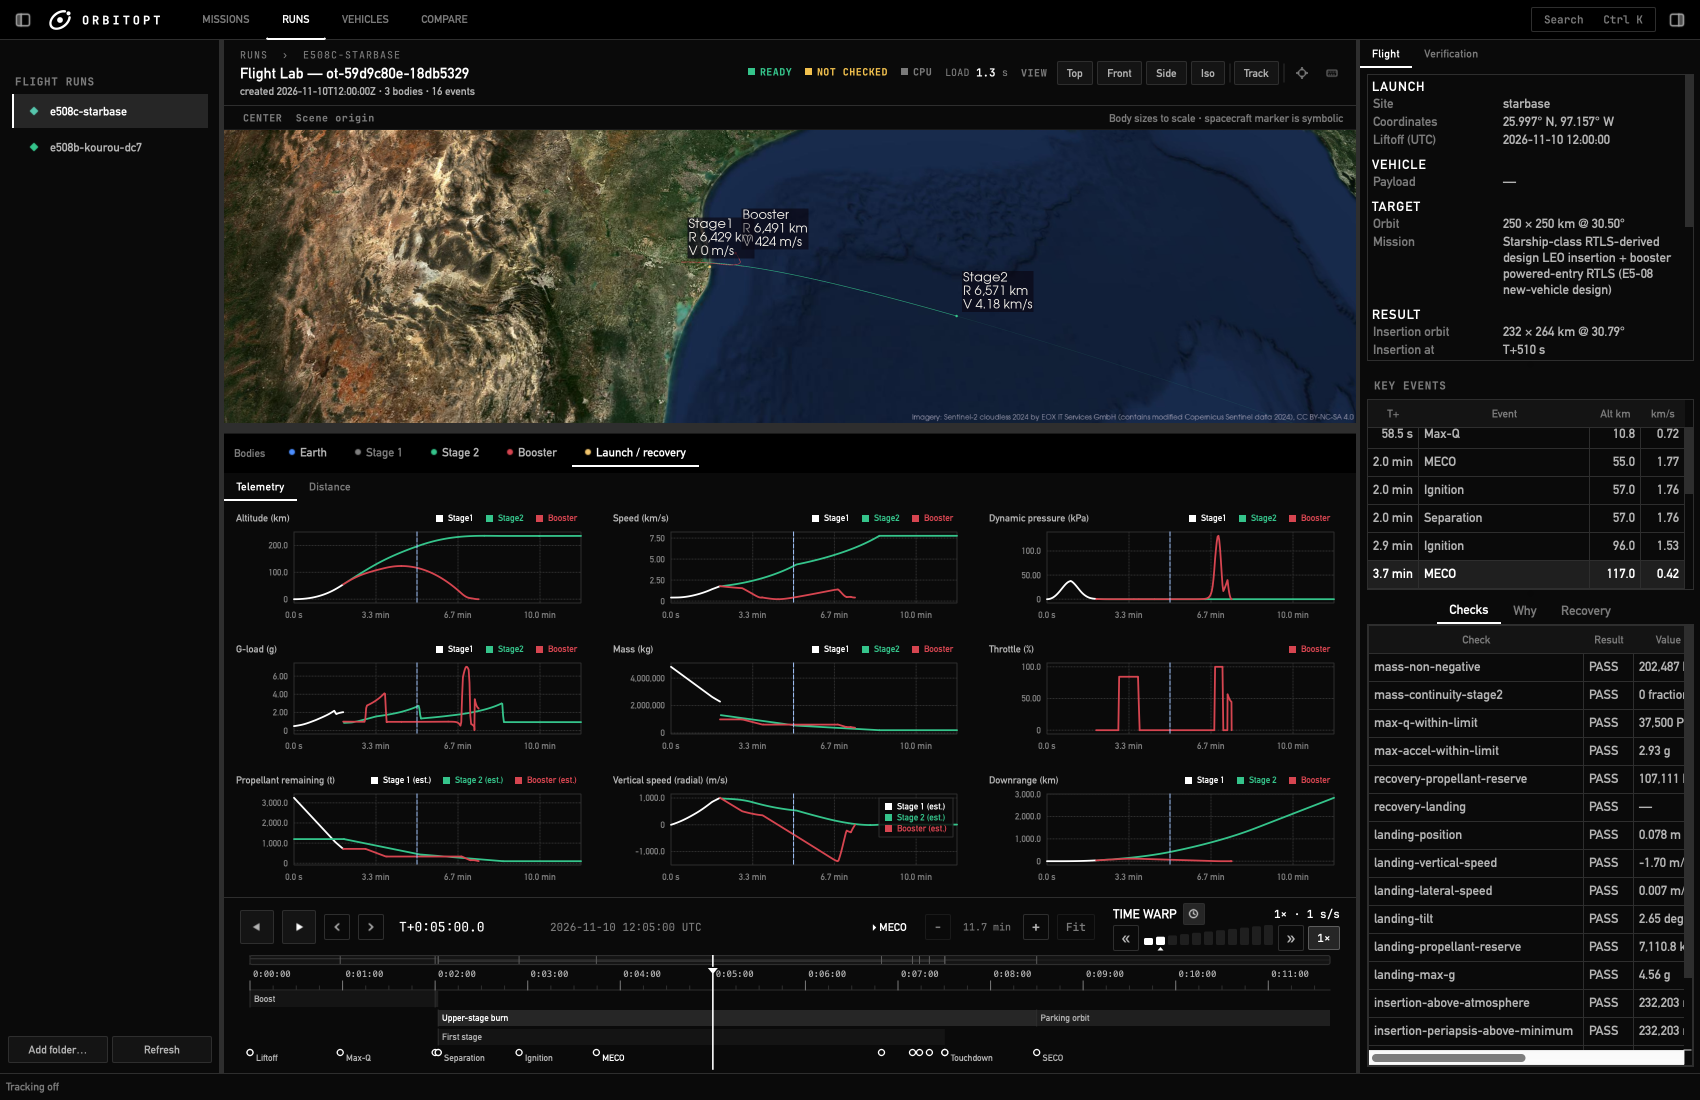
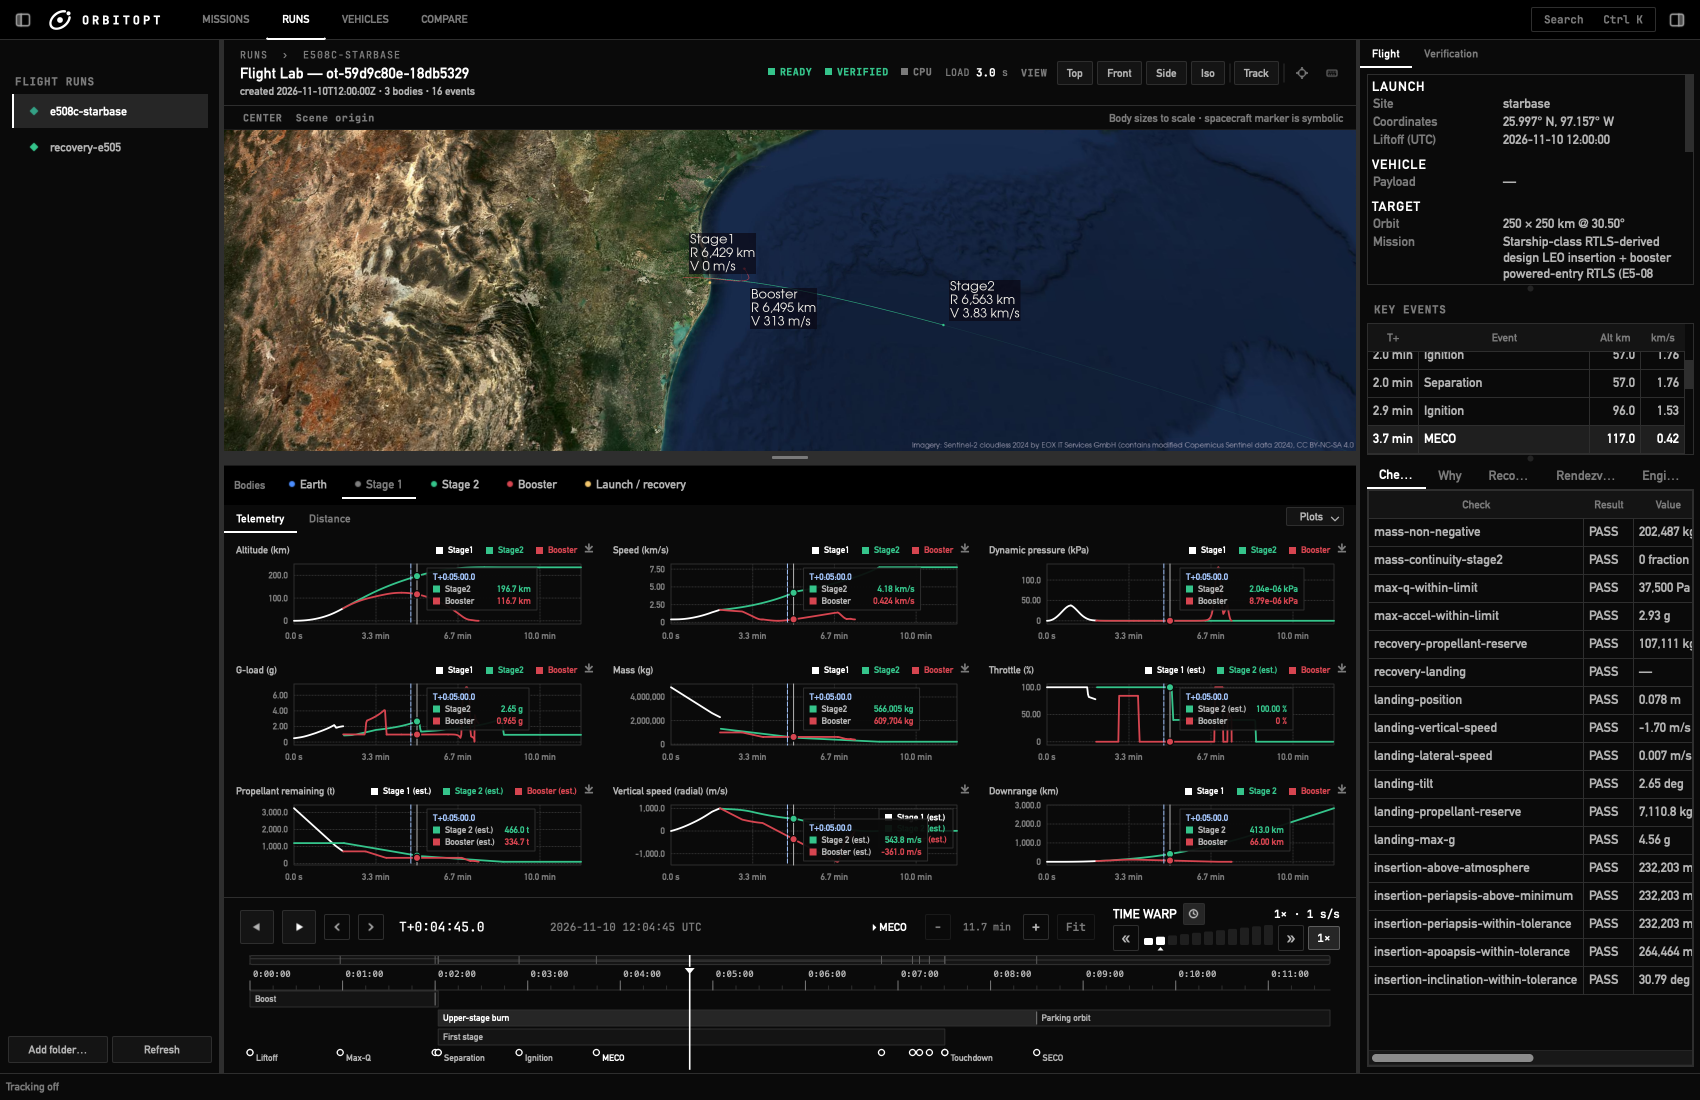
docs: cover E12 rendezvous and refresh Flight Lab screenshots

diff --git a/docs/index.html b/docs/index.html
@@ -1051,8 +1051,8 @@
         <figcaption><span class="fignum">FIG. 1D</span> — GOES, GTO to GEO: the apogee-raising burns mid-campaign</figcaption>
       </figure>
       <figure class="figure">
-        <img src="assets/flightlab-replay.png" alt="Flight Lab's Runs workspace: a two-stage ascent with booster recovery, with per-stage telemetry charts, the key events and every verification check passing" loading="lazy" />
-        <figcaption><span class="fignum">FIG. 1E</span> — Flight Lab: an ascent from <code>orbitopt launch</code>, replayed with its telemetry and checks, injection within tolerance</figcaption>
+        <img src="assets/flightlab-replay.png" alt="Flight Lab's Runs workspace showing linked chart readouts, continuous timeline lanes and recorded flight checks" loading="lazy" />
+        <figcaption><span class="fignum">FIG. 1E</span> — Flight Lab replay of a two-stage ascent and booster recovery, with linked telemetry and recorded checks</figcaption>
       </figure>
     </div>
     <p class="phase-sub" style="margin-top:28px">How to drive it: the <a href="guide.html" style="color:var(--verify)">Mission Control user guide</a>.</p>

diff --git a/docs/computed-mission.md b/docs/computed-mission.md
@@ -20,6 +20,35 @@ dispersion reliability are separate results.
 | E5-07 cross-environment | Recorded ascent + TudatPy mission leg with parking propagation. | Propagation evidenced in the foreign environment; joint gate NOT-DECLARED by design. |
 | E5-08 design variants | Powered-entry RTLS at Kourou and Starbase. | DC7 and Starbase pass the nominal joint physical gate. The original gap remains a negative regression. [Results](e5-08-new-vehicle-report.md). |
 | E8-01 reference check | Compares sealed records with raw backend output and closed forms. | No new flight; validates extraction, continuity and stated reference comparisons. |
+| E12 rendezvous | Plans and replays a target and chaser in LEO. | Nominal, independent re-flight and dispersion results cover the declared reference scenario. [Replay and evidence](#e12-orbital-rendezvous). |
+
+## E12 orbital rendezvous
+
+Generate the packaged **LEO-RDV-001** run from the repository root:
+
+```bash
+orbitopt rendezvous studio -o runs/leo-rdv-001-studio
+orbitopt
+```
+
+In Mission Control, select the run under **Runs**. Follow the target and
+chaser, inspect maneuvers and safety checks in **Flight → Rendezvous**, and
+select range, relative speed or the radial, along-track and cross-track
+components in **Telemetry → Plots**. Use `--config PATH` for another mission
+and `--dt S` to set the replay sample interval. The run directory includes
+`mission.json`, `replay.json` and the Rendezvous panel's `rendezvous.json`.
+See the [replay format](adr/rendezvous-0002-mission-studio-flightlab-replay.md).
+
+| Evidence | LEO-RDV-001 result |
+|---|---|
+| Nominal plan | The two-impulse plan uses **10.344 m/s** total Δv. Safety checks evaluate the approach trajectory. [Safety constraints](adr/rendezvous-0002-safety-constraints-whole-trajectory.md). |
+| Independent re-flight | The recorded nonlinear TudatPy re-flight passed its declared checks. Its closest approach was about **909 m**. [Re-flight report](benchmarks/e12_05_independent_refly.json). |
+| Dispersion campaign | **14 of 264** hold-out cases passed under the declared stress levels (5.3%, Wilson 95% CI 3.2–8.7%). There were 181 arrival-accuracy failures and 69 safety failures. [Campaign design](adr/rendezvous-0003-dispersion-campaign-not-a-safety-factor.md). |
+
+For the independent re-flight in a TudatPy environment, use
+`orbitopt crossenv run --plan src/orbitopt/data/crossenv_e12_05_plan.yaml`.
+See the [independent verification design](adr/rendezvous-0002-independent-refly-tudatpy.md)
+and [CW validity study](benchmarks/e12_02_cw_validity.md) for the model limits.
 
 ## Replay and view the RTLS mission
 
@@ -142,8 +171,8 @@ telemetry or independently validated landing is claimed. See
 | E11-05 | Starbase’s independent debris impact-speed discrepancy remained +12.70% against a 12% tolerance. [Aero qualification](benchmarks/e11_05_starbase_aero_qualification.md). |
 | E11-06 | The experimental Starbase replay records two booster ignitions, one for boostback and one for continuous entry and landing. Its saved landing and orbit re-flight checks pass. [Inspect the run](flightlab.md#viewing-runs-in-mission-control). [Gate record: missions, re-flights, FL-304 rates with CIs](#e11-06-gate-record-task-390). |
 
-If you have the E11-06 run locally, open **Runs → e11-06-starbase-continuous-burn**
-to inspect the burn sequence and fin telemetry.
+Add the archived `tests/data/mission/reference/e11-06-starbase-continuous-burn/mission-hs/recovery/run`
+folder in **Runs** to inspect the hot-staging burn sequence and fin telemetry.
 
 At hot staging, the mission chain can bridge the gap between sampled tracks
 using observed acceleration and mass flow while the parent is still firing.
@@ -154,17 +183,13 @@ and the saved replay shows a nominal simulation.
 
 ### E11-06 gate record (task #390)
 
-The release gate re-derived the continuous-burn design on the pinned landing
-stack and archived the evidence under
-`tests/data/mission/reference/e11-06-starbase-continuous-burn{,-reports}`:
-both mission chains (sealed-ascent and hot-staging) grade all 72 checks green;
-the independent SECO orbit re-flights pass; the FL-304 Monte Carlo (36 samples,
-seeds 8/9/10) records 33/36 pinned-script, 36/36 per-sample re-planning, with
-cluster-bootstrap 95% CIs; and the two ignitions are checked in the flown track
-itself (`tests/test_e11_06_gate_record.py`). The README there records what
-stays red or assumed: the DESIGN ASSUMPTION fin drag, the twin speed/q delta,
-the E5-08-era unassessed placeholders, and the search's first-feasible-stops
-reproduction variance (6/36 to 33/36 by seed) — nothing relaxed to pass.
+Both archived mission chains pass all 71 listed checks. The separate SECO
+orbit re-flights also pass. With the selected design, FL-304 recorded 33/36
+landings on each ascent with a pinned script and 36/36 with per-sample
+re-planning on the sealed ascent. The independent twin's peak dynamic
+pressure differs by **18.2%** against a **12%**
+band. The [gate archive](../tests/data/mission/reference/e11-06-starbase-continuous-burn-reports/README.md)
+includes the intervals, fin drag assumption and search sensitivity.
 
 ## Earlier studies
 

diff --git a/docs/flightlab.md b/docs/flightlab.md
@@ -3,9 +3,11 @@
 Flight Lab simulates ascent and booster recovery from code or the CLI.
 Mission Control's **Runs**, **Vehicles** and **Compare** workspaces display
 saved flights, vehicle definitions and run comparisons.
+The [rendezvous workflow](computed-mission.md#e12-orbital-rendezvous) generates
+saved target and chaser trajectories for the same viewer.
 
 <figure>
-  <a href="assets/flightlab-runs-starbase.png"><img src="assets/flightlab-runs-starbase.png" alt="Starbase RTLS replay with a detailed coastal map, ascent and recovery tracks, and per-stage telemetry"></a>
+  <a href="assets/flightlab-runs-starbase.png"><img src="assets/flightlab-runs-starbase.png" alt="Starbase RTLS replay with a coastal map, synchronized chart crosshairs and continuous timeline lanes"></a>
   <figcaption>Sentinel-2 cloudless 2024 by EOX IT Services GmbH, containing modified Copernicus Sentinel data 2024 (CC BY-NC-SA 4.0).</figcaption>
 </figure>
 
@@ -54,11 +56,14 @@ mass flow relative to the track's peak burn rate. Propellant marked `(est.)`
 uses track mass minus dry mass and any attached upper stages, from the
 vehicle file matched by the run's digest. Unknown dry masses remain missing.
 
-**Double-click a telemetry plot** to open a larger, live-linked window.
-Scroll to zoom around the pointer, right-drag to pan, hover for time and
-interpolated per-series values, and use **Reset view** to restore the full range.
-Left-click or drag still seeks the shared mission clock. The same controls
-work on the inline plots and comparison telemetry.
+In **Runs → Telemetry**, hover over a chart to read interpolated values at the
+same time across all charts. Scroll to zoom and right-drag or Shift-drag to pan
+the shared time range. Click or drag to seek, then use **← / →** while the chart
+has focus to step through its samples. The timeline shows one continuous bar
+per lane, with phase boundaries marked along it.
+
+**Double-click a chart** to open a larger view that follows the mission clock.
+Use **Reset view** there to restore the full time range.
 
 In **Runs → Telemetry**, open **Plots** next to the tabs to choose which
 charts to display. Mission Control remembers your selection across runs and
@@ -84,7 +89,7 @@ Separation tooltips show the velocity difference and the applicable limit.
 Recorded mission replays use their mission configuration when the run and
 input digests match. Other runs use the standalone staging check.
 
-[![Expanded propellant plot showing stage and booster estimates with a precise time readout](assets/flightlab-telemetry-detail.png)](assets/flightlab-telemetry-detail.png)
+[![Expanded propellant chart with a crosshair and interpolated upper-stage and booster estimates](assets/flightlab-telemetry-detail.png)](assets/flightlab-telemetry-detail.png)
 
 Targets and vehicles are edited in YAML or through the Python designer API;
 the desktop mode renders runs rather than configuring or flying them.

diff --git a/docs/api.md b/docs/api.md
@@ -28,6 +28,7 @@ The [quickstart](quickstart.md) introduces common workflows. The
 | Task | Python reference |
 |---|---|
 | Load a plan, run stages and verify exchanges | [Cross-environment API]({{ site.baseurl }}/api/python/orbitopt.crossenv/) |
+| Plan, grade and replay rendezvous | [Rendezvous API]({{ site.baseurl }}/api/python/orbitopt.rendezvous/), [relative dynamics]({{ site.baseurl }}/api/python/orbitopt.relative/), [multi-spacecraft mission]({{ site.baseurl }}/api/python/orbitopt.mission.multispacecraft/) |
 | Construct and grade the shared separation handoff | [Coupled branches]({{ site.baseurl }}/api/python/orbitopt.mission.coupled_branches/) |
 | Plan and replay grid-fin entry | [Boostback and replay callbacks]({{ site.baseurl }}/api/python/orbitopt.flightlab.recovery.boostback/), [grid-fin model and guidance]({{ site.baseurl }}/api/python/orbitopt.flightlab.recovery.grid_fins/) |
 | Read recorded booster burns and bridge a powered staging gap | [Engine status]({{ site.baseurl }}/api/python/orbitopt.flightlab.engine_status/), [powered handoff]({{ site.baseurl }}/api/python/orbitopt.mission.powered_bridge/) |

diff --git a/tests/data/mission/reference/e11-06-starbase-continuous-burn-reports/README.md b/tests/data/mission/reference/e11-06-starbase-continuous-burn-reports/README.md
@@ -11,11 +11,11 @@ E11-06 branch itself records its headline results in its commit message
 - `../e11-06-starbase-continuous-burn/` — the run artifacts:
   - `mission/` — the full two-stage LEO mission chain on the sealed E5-08c
     Starbase ascent (`run_two_stage_leo`, cold-staging ascent + continuous-burn
-    recovery). `mission.verification.json` verdict: **all 72 checks pass**.
+    recovery). `mission.verification.json` lists **71 passing checks**.
   - `mission-hs/` — the same chain on a re-derived hot-staging ascent
     (ascent run under `ascent-hs/`); the powered bridge grades the
     continuous-burn handoffs (`recovery.handoff-entry-landing`,
-    `recovery.joint-*-landing`): **all 72 checks pass**.
+    `recovery.joint-*-landing`): **all 71 listed checks pass**.
   - `ascent-refly/` — a copy of the sealed E5-08c ascent with the independent
     SECO orbit re-fly written back (`orbit-refly-*` checks green; the two
     E5-08-era `recovery-*` placeholders stay red — they were never assessed in

diff --git a/README.md b/README.md
@@ -42,6 +42,7 @@ and viewer-only options. Use `orbitopt --help` for commands.
 - [Mission Control](docs/guide.md): 3D view, timeline, telemetry and verification.
 - [Flight Lab](docs/flightlab.md): ascent, recovery and run comparisons;
   [Vehicle view](docs/flightlab.md#vehicle-view) shows the catalog and flight overlays.
+- [Orbital rendezvous](docs/computed-mission.md#e12-orbital-rendezvous): replay the target and chaser, and inspect safety and dispersion results.
 - [Computed mission](docs/computed-mission.md): replay ascent and recovery,
   then propagate across TudatPy and G-FOLD environments;
   [Kourou/Starbase designs](docs/e5-08-new-vehicle-report.md) report remaining qualification gaps.

diff --git a/docs/adr/rendezvous-0002-mission-studio-flightlab-replay.md b/docs/adr/rendezvous-0002-mission-studio-flightlab-replay.md
@@ -68,8 +68,8 @@ existing panels, not a parallel UI. Three contract facts shape the design:
 
 ## Consequences
 
-- LEO-RDV-001 replays with `orbitopt rendezvous studio -o runs/leo-rdv-001-studio`
-  and opens in Flight Lab / `orbitopt view` with no further setup.
+- Generate LEO-RDV-001 with `orbitopt rendezvous studio -o runs/leo-rdv-001-studio`,
+  then select `leo-rdv-001-studio` in Mission Control's **Runs** workspace.
 - The sidecar is display metadata: `scene_export` skips malformed markers rather
   than failing a render, and no UI path reads it into physics.
 - A future event-bearing contract version can absorb the sidecar's `events`
